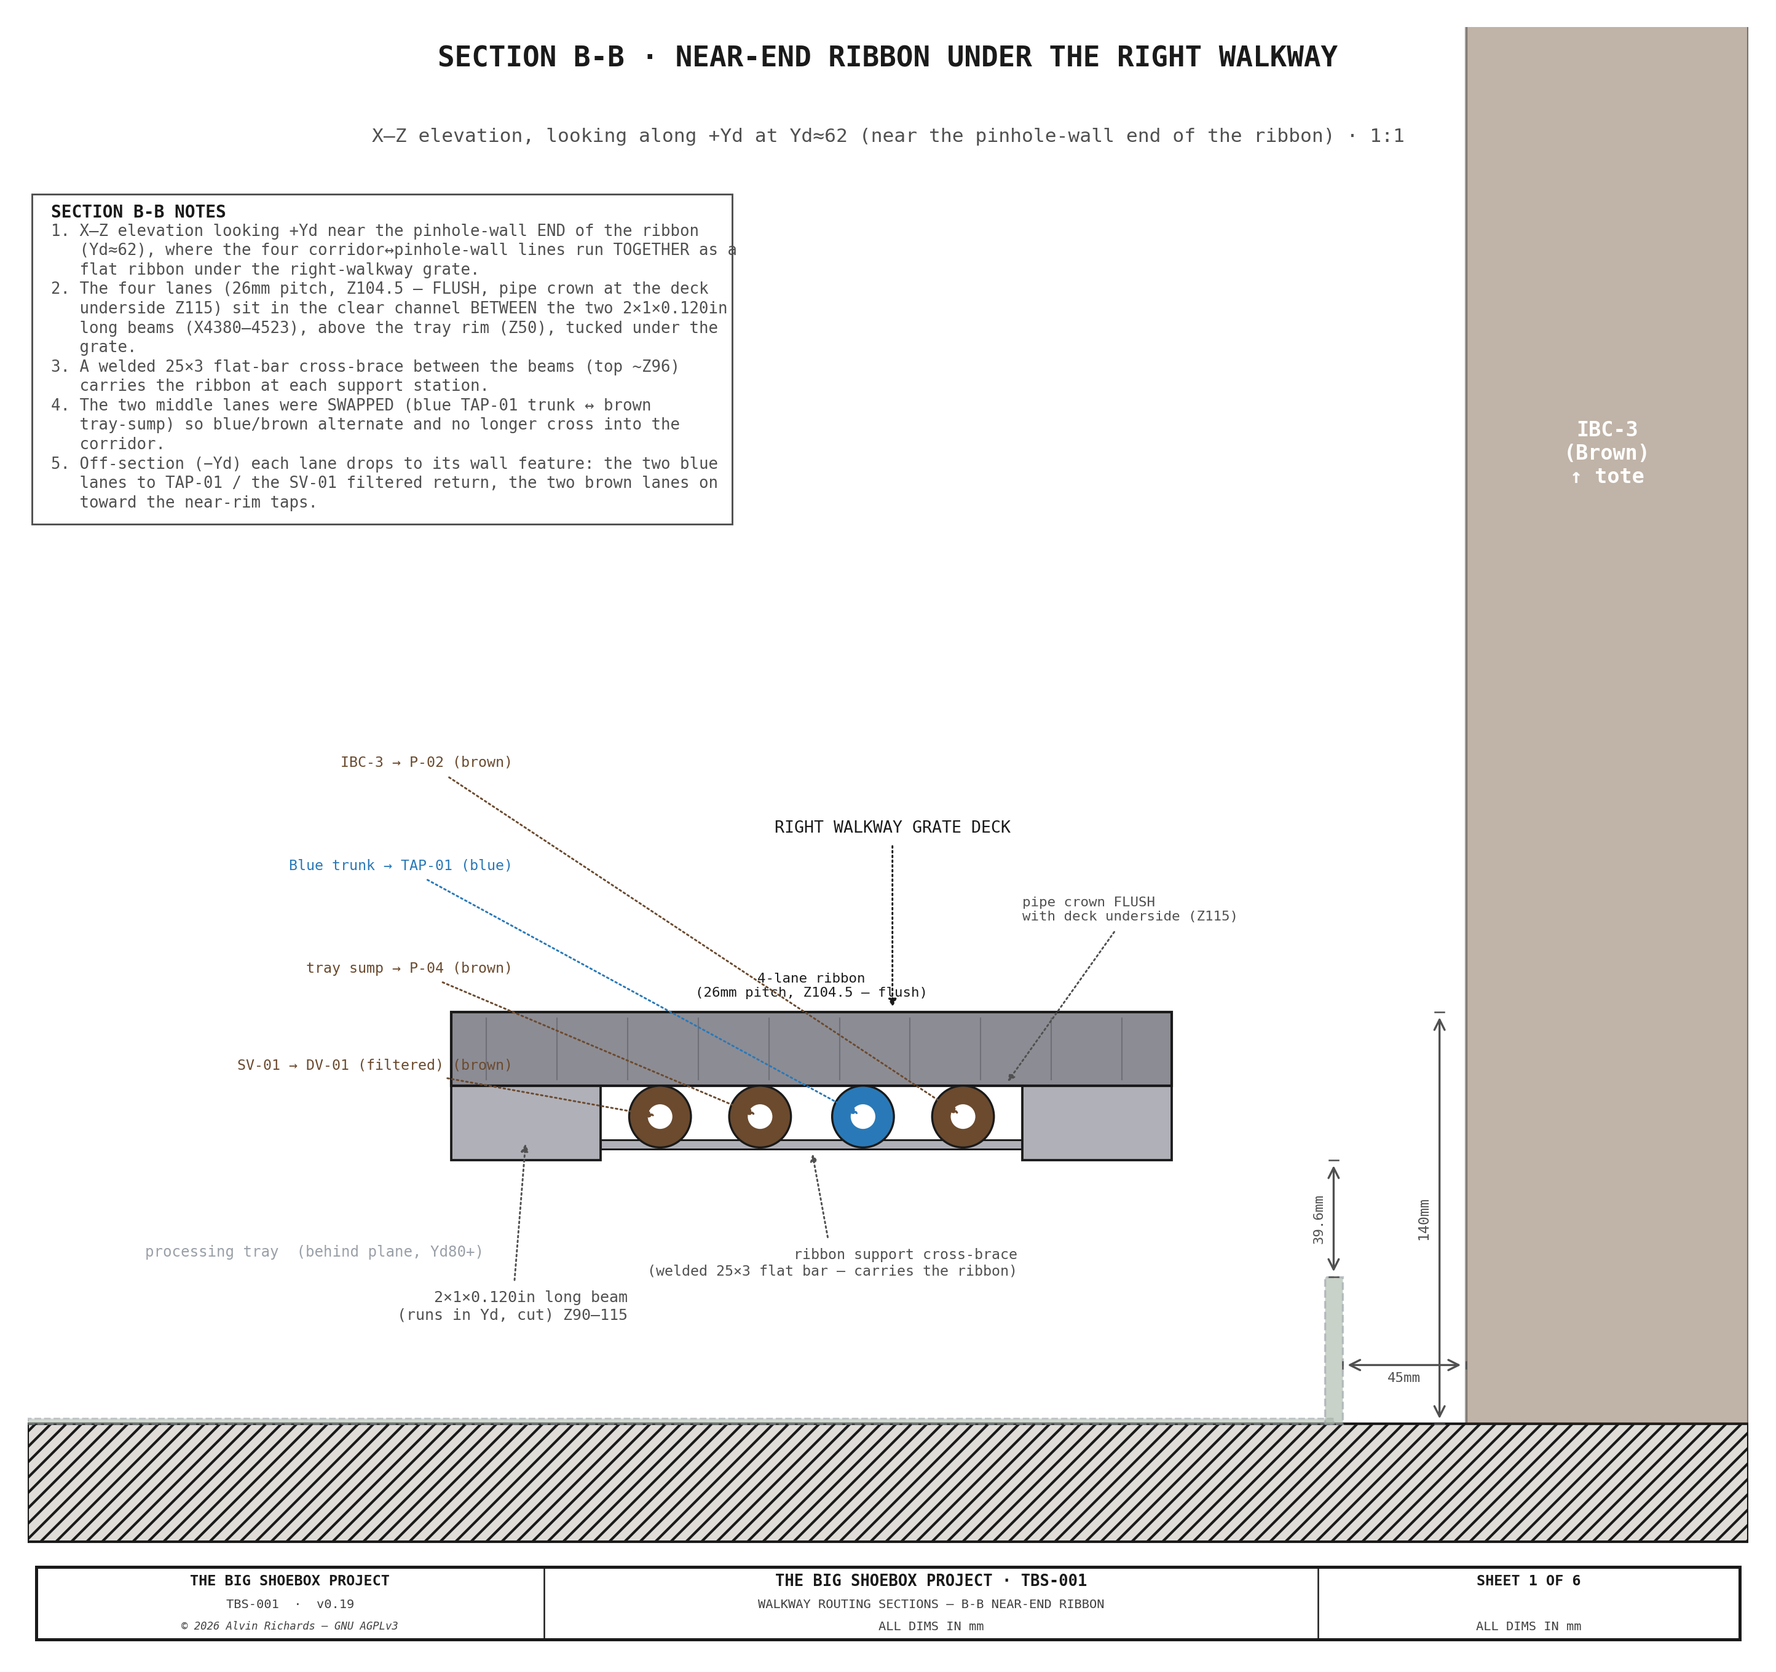
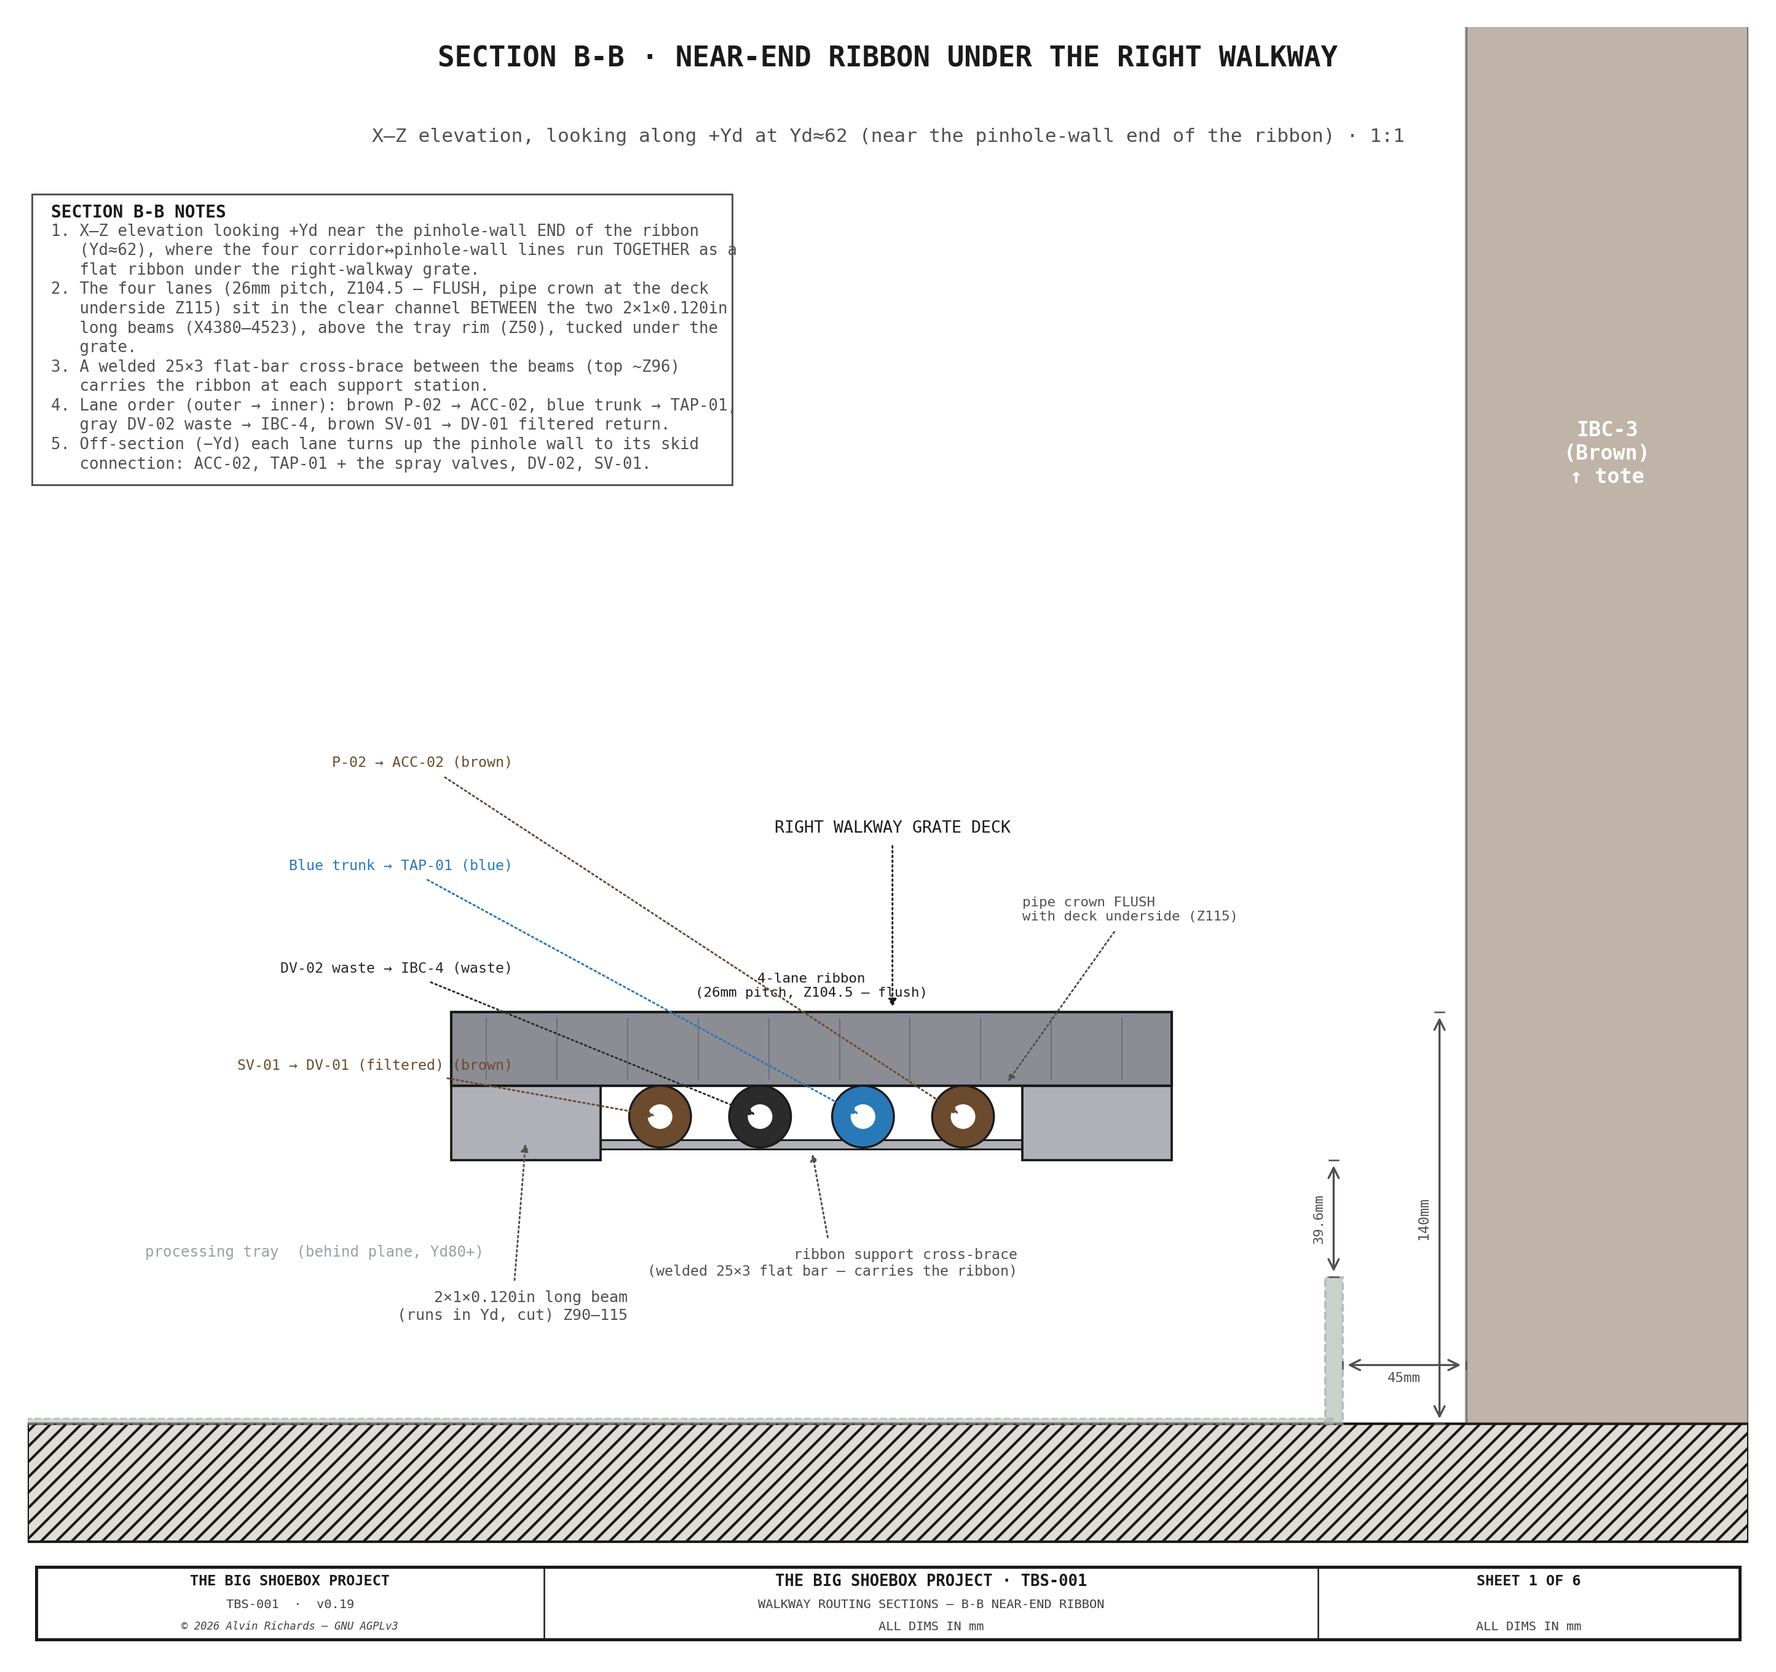
Editorial: Walkway Routing Sections what/why pass — ribbon lanes corrected in text + B-B/C-C/D-D (P-02→ACC-02, trunk, DV-02 waste gray, SV-01→DV-01), back-rail Z70.8, findings as design

Changed region(s): [[0.0312, 0.2187, 0.405, 0.3124], [0.405, 0.656, 0.4673, 0.6872], [0.2492, 0.5623, 0.2804, 0.5935]]

diff --git a/src/generators/generate_walkway_sections.py b/src/generators/generate_walkway_sections.py
@@ -6,7 +6,7 @@ pinhole-wall pipes thread BELOW the right walkway (IBC end) as the under-walkway
 
 Companion to the across-width sections: this cut is at 90° to those — an X–Z elevation
 looking along +Yd, taken at increasing Yd depths.  The four corridor↔pinhole-wall lines
-(IBC-3→P-02, tray-sump→P-04, Blue trunk→TAP-01, filtered return SV-01→DV-01) run TOGETHER
+(P-02→ACC-02, Blue trunk→TAP-01, DV-02 waste→IBC-4, filtered return SV-01→DV-01) run TOGETHER
 as a flat RIBBON in the dead space UNDER the right-walkway grate, in the clear channel
 BETWEEN the two walkway long beams (above the tray rim).  The sections show the ribbon in-
 plane over the tray, its loop UP over the first cantilever, and its drop into the corridor
@@ -61,13 +61,12 @@ GAPX    = PROC_TRAY_X_R + 12                  # 4641 — under-beam crossing in 
 # ── Under-walkway pipe RIBBON (single-sourced from generate_corridor_water_panel `cp`) ──
 # Four lanes side-by-side in X (26mm pitch) in the clear channel BETWEEN the two long beams,
 # at Z=cp.RIBBON_Z (104.5 — FLUSH: pipe crown at the deck underside) under the grate (Z115-130),
-# above the tray rim (Z50).  The middle two lanes were SWAPPED (blue TAP-01 trunk ↔ brown tray-sump)
-# so the blue/brown lines alternate and no longer cross on the way into the corridor.  Lane order
-# (from the outer/IBC beam inward) + which line each carries + its color.
+# above the tray rim (Z50).  Lane order (from the outer/IBC beam inward) + which line each carries +
+# its color, matching the water.skp ribbon_run() lanes.
 RIBBON_LANES = [   # (X, color, tag)  — index-matched to cp.RIBBON_LANE_X
-    (cp.RIBBON_LANE_X[0], C_BROWN, "IBC-3 → P-02"),
+    (cp.RIBBON_LANE_X[0], C_BROWN, "P-02 → ACC-02"),
     (cp.RIBBON_LANE_X[1], C_BLUE,  "Blue trunk → TAP-01"),
-    (cp.RIBBON_LANE_X[2], C_BROWN, "tray sump → P-04"),
+    (cp.RIBBON_LANE_X[2], C_WASTE, "DV-02 waste → IBC-4"),
     (cp.RIBBON_LANE_X[3], C_BROWN, "SV-01 → DV-01 (filtered)"),
 ]
 RIBBON_Z      = cp.RIBBON_Z            # 104.5 — FLUSH under the grate (pipe crown at deck underside Z115)
@@ -323,8 +322,8 @@ def sheet1():
         "1. X–Z elevation looking +Yd near the pinhole-wall END of the ribbon (Yd≈62), where the four corridor↔pinhole-wall lines run TOGETHER as a flat ribbon under the right-walkway grate.",
         "2. The four lanes (26mm pitch, Z104.5 — FLUSH, pipe crown at the deck underside Z115) sit in the clear channel BETWEEN the two 2×1×0.120in long beams (X4380–4523), above the tray rim (Z50), tucked under the grate.",
         "3. A welded 25×3 flat-bar cross-brace between the beams (top ~Z96) carries the ribbon at each support station.",
-        "4. The two middle lanes were SWAPPED (blue TAP-01 trunk ↔ brown tray-sump) so blue/brown alternate and no longer cross into the corridor.",
-        "5. Off-section (−Yd) each lane drops to its wall feature: the two blue lanes to TAP-01 / the SV-01 filtered return, the two brown lanes on toward the near-rim taps.",
+        "4. Lane order (outer → inner): brown P-02 → ACC-02, blue trunk → TAP-01, gray DV-02 waste → IBC-4, brown SV-01 → DV-01 filtered return.",
+        "5. Off-section (−Yd) each lane turns up the pinhole wall to its skid connection: ACC-02, TAP-01 + the spray valves, DV-02, SV-01.",
     ]
     draw_notes(ax, notes, X_LO + 8, Z_HI - 60, 6.6, fs=6.2,
                font=FONT, width=225, wrap=72, border_color=C_DIM, border_lw=0.7)

diff --git a/docs/walkway-routing-sections.md b/docs/walkway-routing-sections.md
@@ -5,12 +5,12 @@
 The corridor plumbing threads a tight zone at the IBC end of the container, where the
 **right walkway**, the **processing tray**, the **IBC restraint frame** and the **pump
 column** all compete for space. The four lines that connect the plumbing corridor to the
-pinhole‑wall panel — IBC‑3 → P‑02, the filtered return SV‑01 → DV‑01, the tray‑sump → P‑04
-pickup, and the Blue supply trunk → TAP‑01 — run together as a flat **ribbon** in the dead
-space **under the right‑walkway grate**, in the clear channel between the two walkway long
-beams. This document is a set of **cross‑sections** that walk from the pinhole wall across to
-the plumbing corridor, so the clear routing envelope the ribbon actually has at each depth is
-legible — and so the points where it shares space with structure are visible.
+pinhole‑wall filter skid — P‑02 → ACC‑02 (recycle spray), the Blue supply trunk → TAP‑01 and the
+spray valves, the DV‑02 waste → IBC‑4, and the filtered return SV‑01 → DV‑01 — run together as a
+flat **ribbon** in the dead space **under the right‑walkway grate**, in the clear channel between
+the two walkway long beams. These **cross‑sections** walk from the pinhole wall across to the
+plumbing corridor, so the routing envelope at each depth, and where the ribbon shares space with
+structure, are visible.
 
 These sections are the companion to the [Plumbing](plumbing-report.md) report; the pipe
 positions are read off the 3D water model (`water.skp`) and drawn 1:1.
@@ -20,7 +20,7 @@ positions are read off the 3D water model (`water.skp`) and drawn 1:1.
 The five sections **B‑B through F‑F** are **longitudinal along the walkway**
 (down the length of the container), cut at increasing depth — so together they scan
 from the pinhole wall across to the plumbing corridor. (Sections
-**G‑G / H‑H** below add the tray‑slope views)
+**G‑G / H‑H** below add the tray‑slope views.)
 
 | Section | Cut (Yd) | What it shows |
 |--------|---------|---------------|
@@ -38,8 +38,9 @@ Cut near the **pinhole‑wall end of the ribbon (Yd ≈ 62)**. The four lanes ru
 a 26 mm pitch at **Z104.5 — flush**, their crowns at the grate underside, in the clear
 channel between the two 2×1×0.120in (50.8 × 25.4mm) long beams, sitting **above the tray rim**.
 A welded 25 × 3mm flat-bar cross‑brace between the beams carries the ribbon at each support station.
-Off‑section each lane drops to its wall feature — the two blue lanes to TAP‑01 and the
-SV‑01 filtered return, the two brown lanes on toward the near‑rim taps.
+Off‑section each lane turns up the pinhole wall to its skid connection — the brown P‑02 line to
+ACC‑02, the blue trunk to TAP‑01 and the spray valves, the gray waste from DV‑02, and the brown
+filtered return from SV‑01.
 
 ## Section C‑C — midway (pinhole wall ↔ corridor)
 
@@ -61,7 +62,7 @@ its **front upright** and its **front foot (150 × 150) — extending
 bearers) carries the deck.
 
 The ribbon **loops up over the cantilever** here. It rises through the grate, crests,
-then passing over the arm top and the grate, clearing the arm by ≈ 16 mm
+then passes over the arm top and the grate, clearing the arm by ≈ 16 mm
 — and drops back to the **flush ribbon height**, so it never passes through the
 cantilever steel and never dips toward the tray. No line threads the tray‑rim↔upright gap at this
 plane. Past the cantilever each lane stays flush, crosses the **open corridor bay** (the outer
@@ -94,7 +95,7 @@ top Z70.8). The IBC tote‑fill and equalization lines, which belong to the IBC 
 The mirror of D‑D on the far side of the corridor: the far cantilever arm and far
 foot (again extending under the tray). The ribbon loops over the **near** cantilever only and has
 dropped into the corridor, so no line crosses this far cantilever; the nearest line is
-the blue SV‑01 → DV‑01 return lane.
+the brown SV‑01 → DV‑01 filtered‑return lane.
 
 ## Sections G‑G / H‑H — tray slope, support & spray‑carriage clearance
 
@@ -108,10 +109,9 @@ cut at the far rim (the high corner of the dual slope) showing the level walkway
 sloped pan and the shrunk spray‑carriage (Ø32 wheels + 1½in-square SS beam) with **~30 mm clearance**
 under the left grate.
 
-## Interference & clearance findings
+## Clearances
 
-Drawing these sections at 1:1 against `water.skp` confirms the ribbon's key clearances and the
-two remaining structural items the plan views do not reveal:
+Drawn 1:1 against `water.skp`, the sections show the clearances the plan views do not:
 
 1. **Ribbon flush under the grate, clear of the carriage** — the four lanes ride **flush**
    (pipe crown at the grate underside) and 54 mm above the tray rim. Flush is what keeps
@@ -130,19 +130,18 @@ two remaining structural items the plan views do not reveal:
    rises it to the pumps. The walkway grate is split at the two cantilever‑arm centers so its
    **center section bridges the open bay**; the short span carries a little flex, accepted over the
    low‑traffic corridor. No pinch remains at the tray‑rim↔upright gap.
-4. **Front foot + M12 anchor under the tray basin** — the tray‑datum correction raises the welded
-   pan onto the shim ramp (floor bottom, at the corridor foot stations), so the 12 mm front
-   foot clears **~11 mm** *under* the pan (see G‑G).
+4. **Front foot + M12 anchor under the tray basin** — the welded pan sits on the shim ramp
+   (floor bottom, at the corridor foot stations), so the 12 mm front foot clears **~11 mm**
+   *under* the pan (see G‑G).
 5. **Cantilever‑arm reference** — the RWK cantilever arm clamps to the deep‑box front upright, so overview / ibc‑stack /
    walkway all reference the same upright.
 6. **DV‑02 waste hops the back ring‑rail (E‑E)** — the waste → IBC‑4 line crosses the corridor at the floor to reach the
-   rear merge, and the back bottom Yd‑rail is the full 50 RHS (top Z65), so a flat Z65 run clipped its top. The line now
-   **lifts to Z90 over the rail** — staying low (Z65) past the P‑02 → ACC‑02 recycle crossing, then hopping just before the
-   rail — clearing both the rail and the recycle line. The ribbon lanes are unaffected (they enter inboard of the rail).
+   rear merge. It stays low (Z65) past the P‑02 → ACC‑02 recycle crossing, then **lifts to Z90** just before the back
+   bottom Yd‑rail (full RHS, top Z70.8), clearing both. The ribbon lanes enter inboard of the rail.
 
 ## See Also
 
-- [Plumbing](plumbing-report.md) — the corridor plumbing panel and the four-line topology these sections cut through.
+- [Plumbing](plumbing-report.md) §7.1 — the corridor plumbing panel and the four-line ribbon these sections cut through.
 - [Walkway Report](walkway-report.md) §4 — the right-walkway cantilever rectangle the sections pass over.
 - [Processing Tray & Spray Bar](processing-tray-and-spray-bar.md) — the tray slope + spray-carriage clearance (G‑G / H‑H).
 - [Water System Report](water-system-report.md) — the Blue / Brown / Black circuit topology of the four ribbon lines.

diff --git a/docs/editorial-review-todo.md b/docs/editorial-review-todo.md
@@ -49,7 +49,7 @@ are kept after each entry.
 - [x] equipment-layout-report.md  — what/why pass 2026-11-20, confirmed complete (owner): zone X ranges + transport swing → fact placeholders; chemistry prep shelf added to the pinhole-wall zone (it sits in the optical X span, clear of the cone near the wall — the report said the optical zone held only rails/tray/walkway); "Reducing the film plane…" → stated as the design; "New Layout" alt text and the "600L tote does not exist" aside cut; sources corrected (pumps → Plumbing Report) + shelf source. Line-of-sight + floor plan diagrams now draw the shelf.
 - [x] water-system-report.md  — what/why pass 2026-11-20, confirmed complete (owner): DV-01 accept band reconciled to pH 6–7.5 (schematic said 6–7 while §4.2/§2.2 hold the buffer below 7.5, leaving 7–7.5 undefined) — same fix in the Operating Manual §4.2 (incl. step 4.2.9 "above pH 8" → 7.5) and Plumbing Report; band now BROWN_PH_LO/HI constants injected as facts (ASCII schematics keep literal text); flood depth → fact placeholder (owner: tray report), raw "~103 sq ft" dropped; §6 "instead of filling and dwelling / only P-04's runtime rises" → stated as the design; §4.1 cross-tie bullet tightened. §2 chemistry/waste and §9/§10 were rewritten this session and left as is.
 - [x] plumbing-report.md  — what/why pass 2026-11-20, confirmed complete (owner): factual fixes — DV-01 outputs go to Brown IBC-3 (table said Blue IBC-2); filter-inlet reducer is on the DV-02 output (said P-02); P-05 shares the near-column IBC-3 tap (said far column); filter bracket is Pentair 244718 (said 150061, the retired kit); Blue manifold is PVC (said HDPE); P-04 lift is to the filter bank (said ~900mm head; the heads sit near the ceiling); §7.4 protrusion table listed the filter housings, which are on the other panel, and a "653mm clear" with no basis → corridor-panel items only, tip ≈ X4744 clear of the X4,649 rail; BV-06 named as the 6th 2-way valve. History cut: intro blockquote duplicating §1; §5.1 "(a) resolved 2026-07-27 … still open (b)(c)" paragraph (both done); "raised / added / re-routed / dropped" support-board phrasing; "replaced the welded frame −$85"; valve re-sourcing prices; "#29/#30" ticket refs. §4.4 now covers SV-02. Corridor width → placeholder. parts.py panel tags fixed (BV-03 → Corridor, SV-02 → Pinhole Wall). 3,527 → 3,329 words. Then: §2 "Panel Specifications" deleted (one panel only; rows duplicated §1, §7.1, the drawing and the cut sheets) — white face folded into §1; mounting merged into one §6.1 covering both panels; sections renumbered and inbound links repointed (water, electrical, manual, energy, dependency map). Then: §2.2 pump-selection/fuse text corrected + drain-pump switches S-05/S-03; valve tags renumbered (BV-05/06/07, no suffixes); §5 flow diagrams redrawn vertically (+ Brown drain-out path).
-- [ ] walkway-routing-sections.md
+- [ ] walkway-routing-sections.md  — IN PROGRESS: what/why pass 2026-11-20 (awaiting owner review): the ribbon's four lines were stale in the text AND the B-B/C-C/D-D drawings (IBC-3→P-02 + tray-sump→P-04, both retired when P-02 moved to the corridor and P-04 to the skid) → P-02→ACC-02, Blue trunk→TAP-01, DV-02 waste→IBC-4 (gray, was drawn brown), SV-01→DV-01; F-F "blue SV-01 lane" → brown; finding 6 back-rail top Z65 → Z70.8 (matches E-E + constants); "Interference & clearance findings" → "Clearances" with the history ("tray-datum correction", "now lifts", "two remaining items") stated as the design; "passing" grammar; See Also → Plumbing §7.1.
 - [ ] ibc-stacking-report.md
 - [ ] processing-tray-and-spray-bar.md
 

diff --git a/RELEASE.md b/RELEASE.md
@@ -26,6 +26,7 @@ is no separate publish step to run afterward.
 
 ## [Unreleased]
 
+- **Walkway Routing Sections: ribbon lanes corrected.** The text and the B-B/C-C/D-D drawings still named the retired IBC-3 → P-02 and tray-sump → P-04 lines; the ribbon carries P-02 → ACC-02, the Blue trunk → TAP-01, the DV-02 waste → IBC-4 (now drawn gray) and the SV-01 → DV-01 filtered return. The back bottom rail top reads Z70.8 throughout; findings restated as the design.
 - **Plumbing §5 flow diagrams drawn vertically** (one component per line, waste branches to the side), naming every valve and switch on each path; the Brown drain-out (IBC-3 → BV-02 → P-05 → X3) is now drawn.
 - **Spray valves single-sourced at their real positions.** `BV05_Z` (950) placed both spray valves in the 2D while the 3D had them at Z700 / Z900 with a typed −150mm X nudge. Now `BV05_X` = pinhole X − 150 (shared riser), `BV05_Z` = 700 (selector) and `BV06_Z` = 900 (on/off), read by the 3D builder, the pinhole-wall elevation, the spray-bar sheet and the near-walkway riser hole. The elevation now draws the 3D topology: Blue trunk up into BV-05, recycled Brown into its side, mixed riser up to BV-06, hose off BV-06.
 - **Valve tags renumbered — no letter suffixes.** The spray selector BV-05a is now **BV-05**, the spray on/off BV-05b is **BV-06**, and the P-03 waste-drain suction (was BV-06) is **BV-07**, across every report, the Operating Manual, the parts registry, the 2D sheets (pinhole-wall elevation, spray bar 1/7, panel layout + spine A, water system, electrical 4, support detail) and the 3D models. References to the valve the spray hose leaves from now name BV-06 (the on/off), and the flow chains read BV-05 → BV-06 → spray bar.
